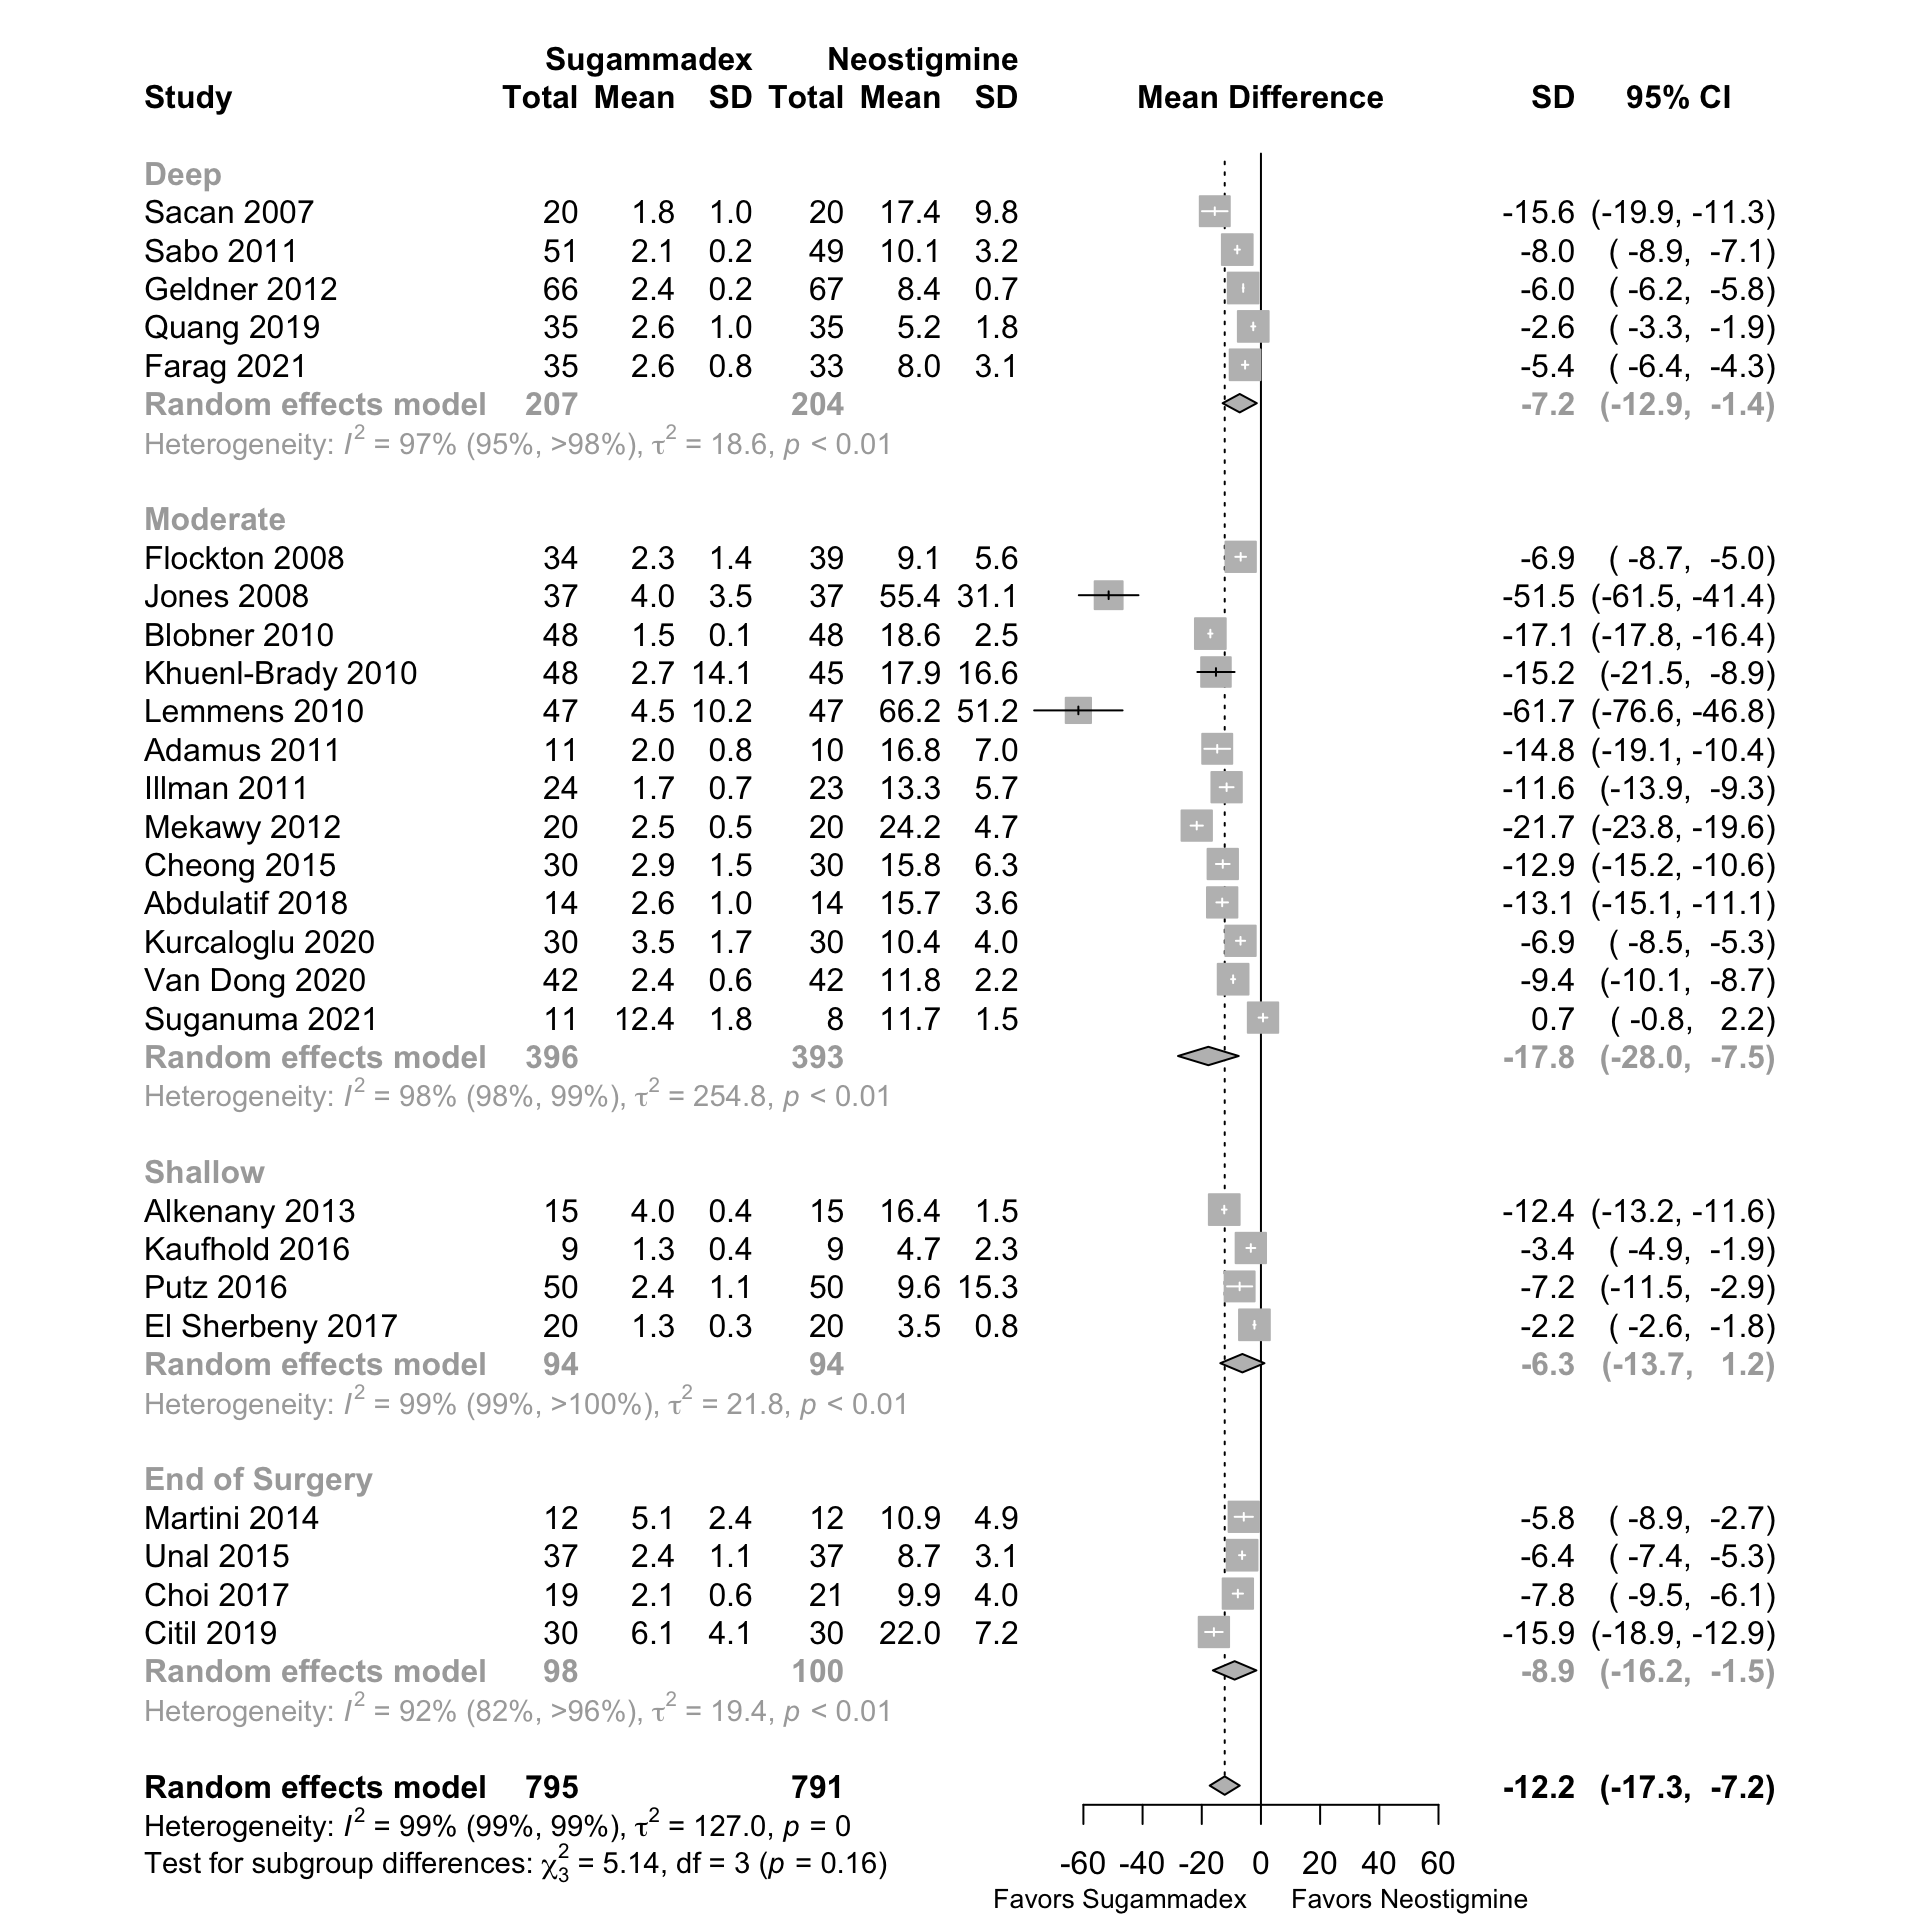
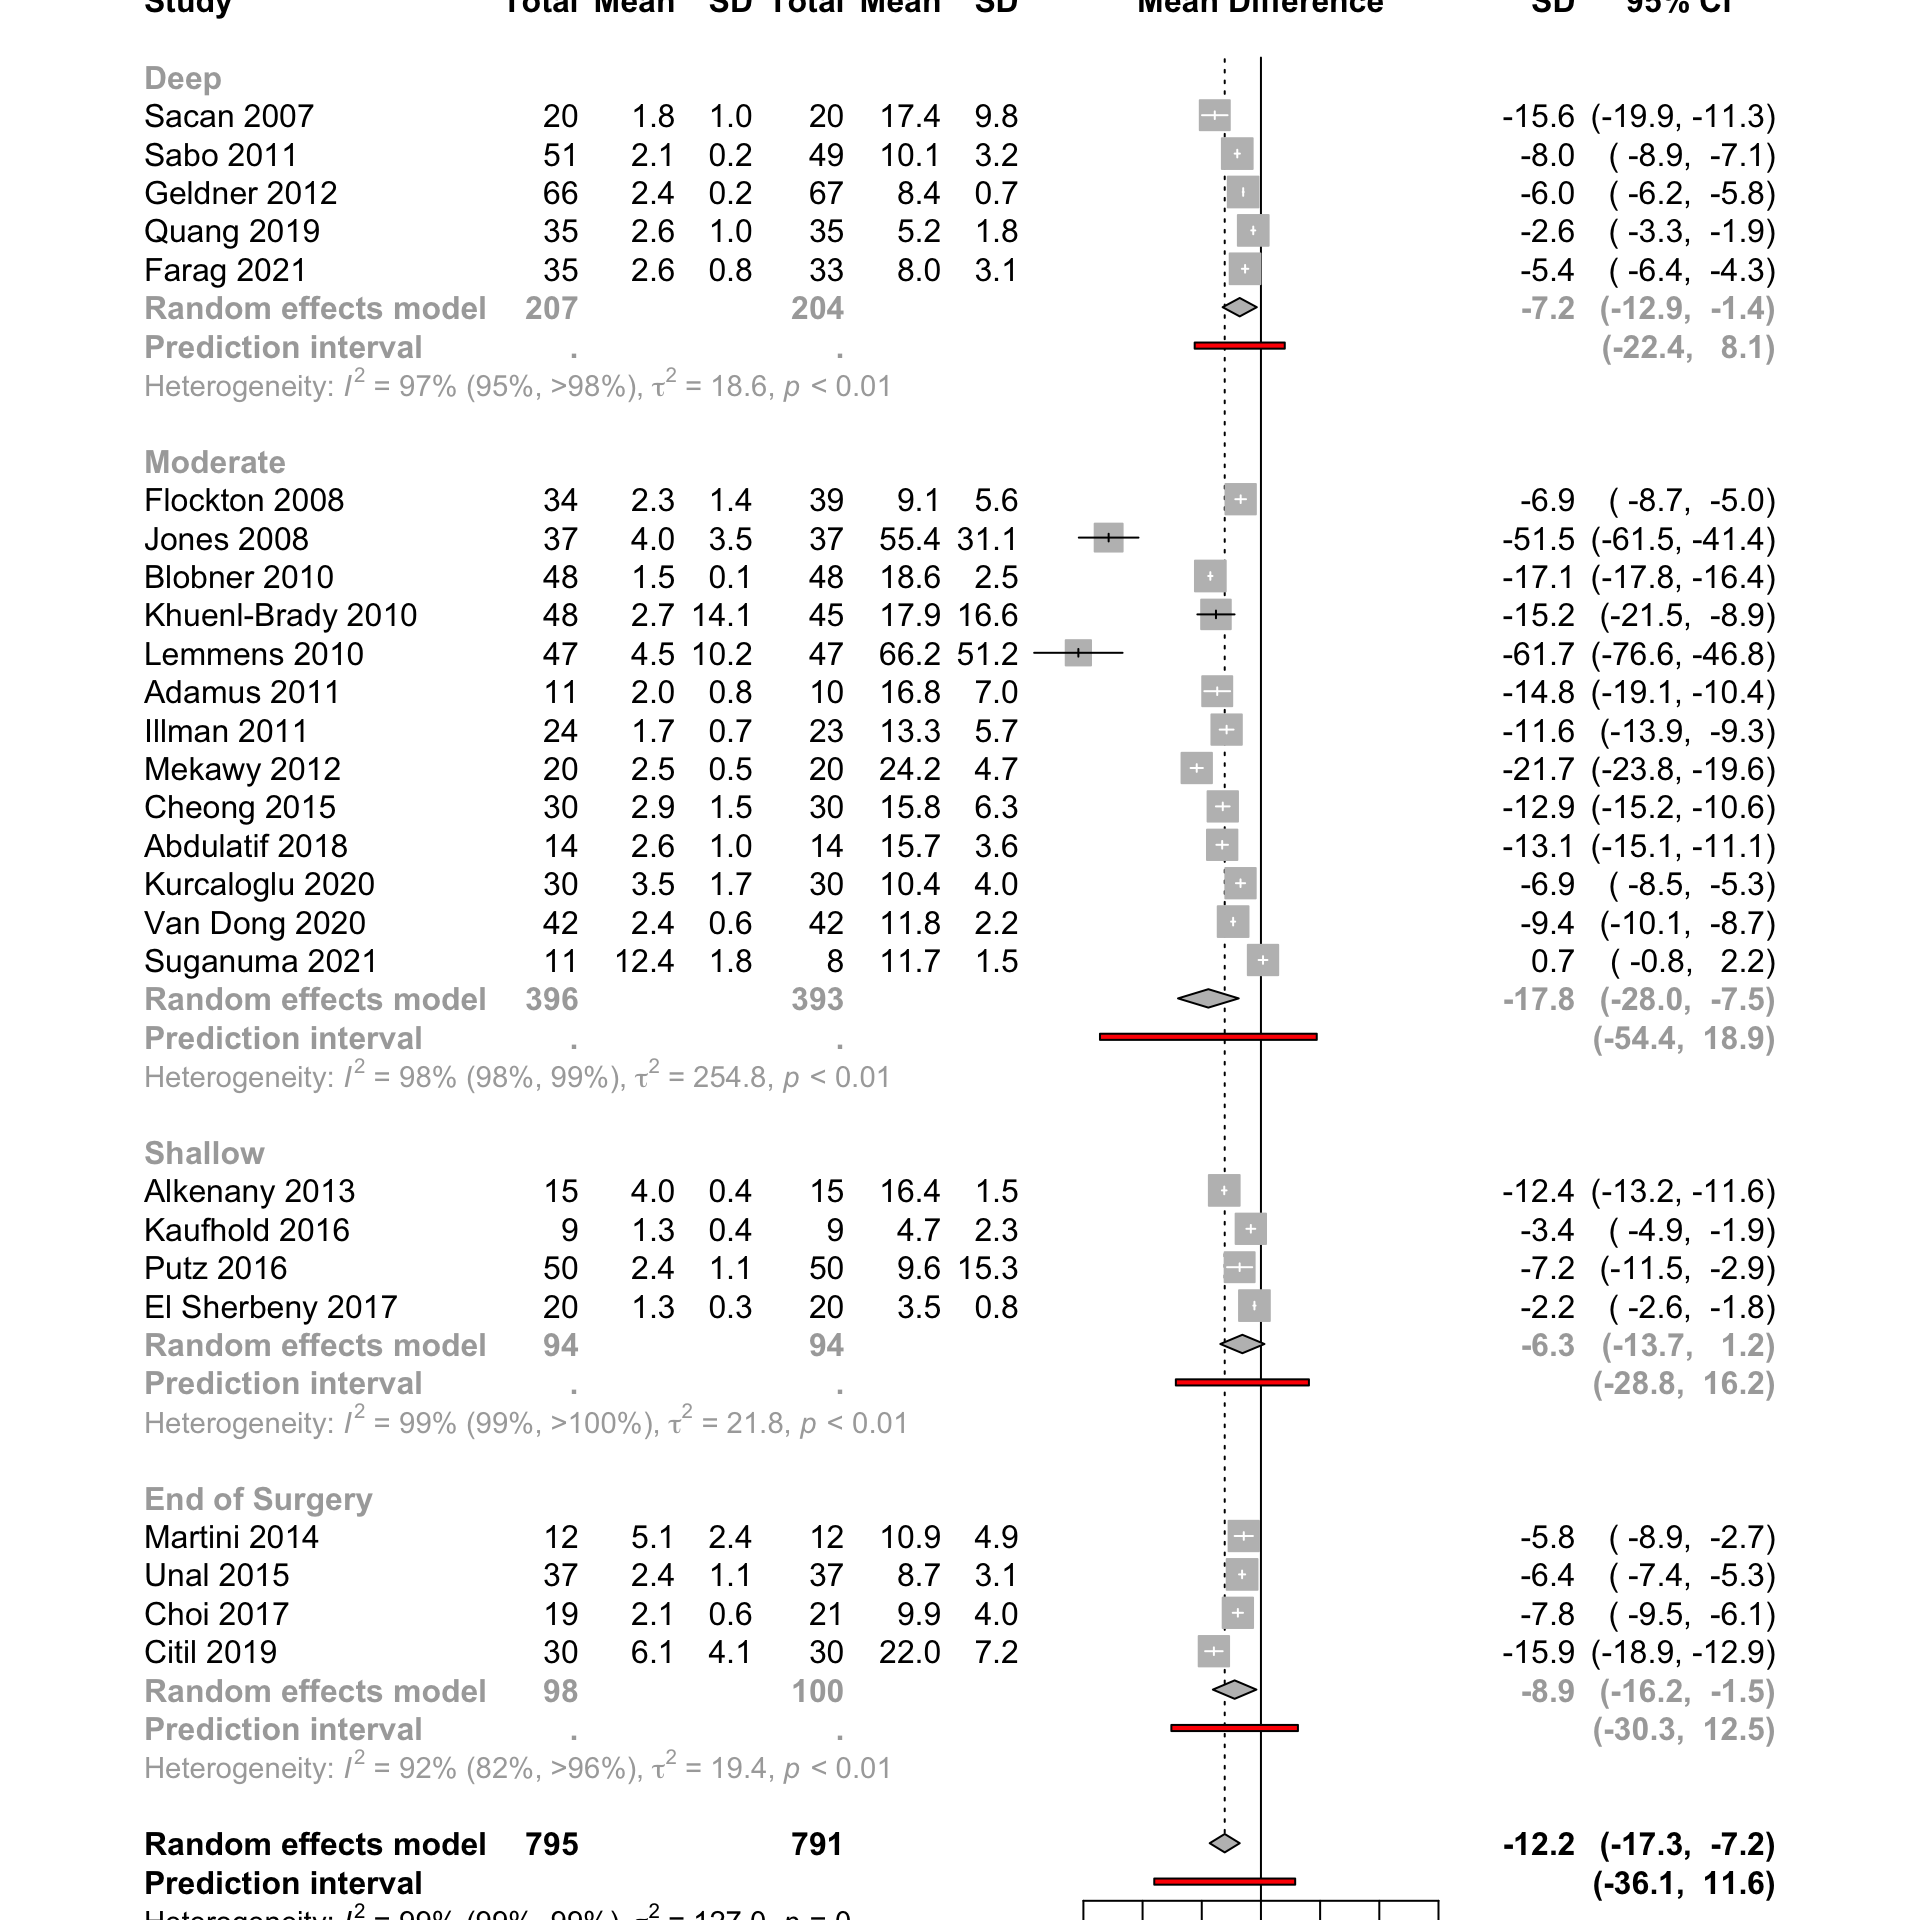
update reversal time to include prediction

diff --git a/docs/reversal.html b/docs/reversal.html
@@ -403,7 +403,7 @@ div.tocify {
 
 
 <h1 class="title toc-ignore">Reversal</h1>
-<h4 class="date">20 January, 2022 (08:25)</h4>
+<h4 class="date">20 January, 2022 (13:28)</h4>
 
 </div>
 
@@ -519,16 +519,16 @@ This reproducible <a href="https://rmarkdown.rstudio.com">R Markdown</a> analysi
 <div class="panel panel-default">
 <div class="panel-heading">
 <p class="panel-title">
-<a data-toggle="collapse" data-parent="#workflowr-checks" href="#strongRepositoryversionstrongahrefhttpsgithubcommdgrantNMBtree3642a501e9e8c099fc01314f4c26a0b52d7eb590targetblank3642a50a"> <span class="glyphicon glyphicon-ok text-success" aria-hidden="true"></span> <strong>Repository version:</strong> <a href="https://github.com/mdgrant/NMB/tree/3642a501e9e8c099fc01314f4c26a0b52d7eb590" target="_blank">3642a50</a> </a>
+<a data-toggle="collapse" data-parent="#workflowr-checks" href="#strongRepositoryversionstrongahrefhttpsgithubcommdgrantNMBtree180d1cc1589ef064bc01960d7c28b5316e4361c9targetblank180d1cca"> <span class="glyphicon glyphicon-ok text-success" aria-hidden="true"></span> <strong>Repository version:</strong> <a href="https://github.com/mdgrant/NMB/tree/180d1cc1589ef064bc01960d7c28b5316e4361c9" target="_blank">180d1cc</a> </a>
 </p>
 </div>
[2 lines of base64/hex data omitted]
 <div class="panel-body">
 <p>
 Great! You are using Git for version control. Tracking code development and connecting the code version to the results is critical for reproducibility.
 </p>
 <p>
-The results in this page were generated with repository version <a href="https://github.com/mdgrant/NMB/tree/3642a501e9e8c099fc01314f4c26a0b52d7eb590" target="_blank">3642a50</a>. See the <em>Past versions</em> tab to see a history of the changes made to the R Markdown and HTML files.
+The results in this page were generated with repository version <a href="https://github.com/mdgrant/NMB/tree/180d1cc1589ef064bc01960d7c28b5316e4361c9" target="_blank">180d1cc</a>. See the <em>Past versions</em> tab to see a history of the changes made to the R Markdown and HTML files.
 </p>
 <p>
 Note that you need to be careful to ensure that all relevant files for the analysis have been committed to Git prior to generating the results (you can use <code>wflow_publish</code> or <code>wflow_git_commit</code>). workflowr only checks the R Markdown file, but you know if there are other scripts or data files that it depends on. Below is the status of the Git repository when the results were generated:
@@ -565,6 +565,7 @@ Unstaged changes:
     Modified:   analysis/kq2.Rmd
     Modified:   analysis/kq3.Rmd
     Modified:   analysis/reversal.Rmd
+    Modified:   analysis/soe.Rmd
     Modified:   code/readfiles_nmb_102721.R
 
 </code></pre>
@@ -604,6 +605,23 @@ Message
 </tr>
 </thead>
 <tbody>
+<tr>
+<td>
+html
+</td>
+<td>
+<a href="https://rawcdn.githack.com/mdgrant/NMB/801a6b8acb839929c93f9b3bd0e41790a781ac11/docs/reversal.html" target="_blank">801a6b8</a>
+</td>
+<td>
+Mark Grant
+</td>
+<td>
+2022-01-20
+</td>
+<td>
+misc reversal initial soe
+</td>
+</tr>
 <tr>
 <td>
 html
